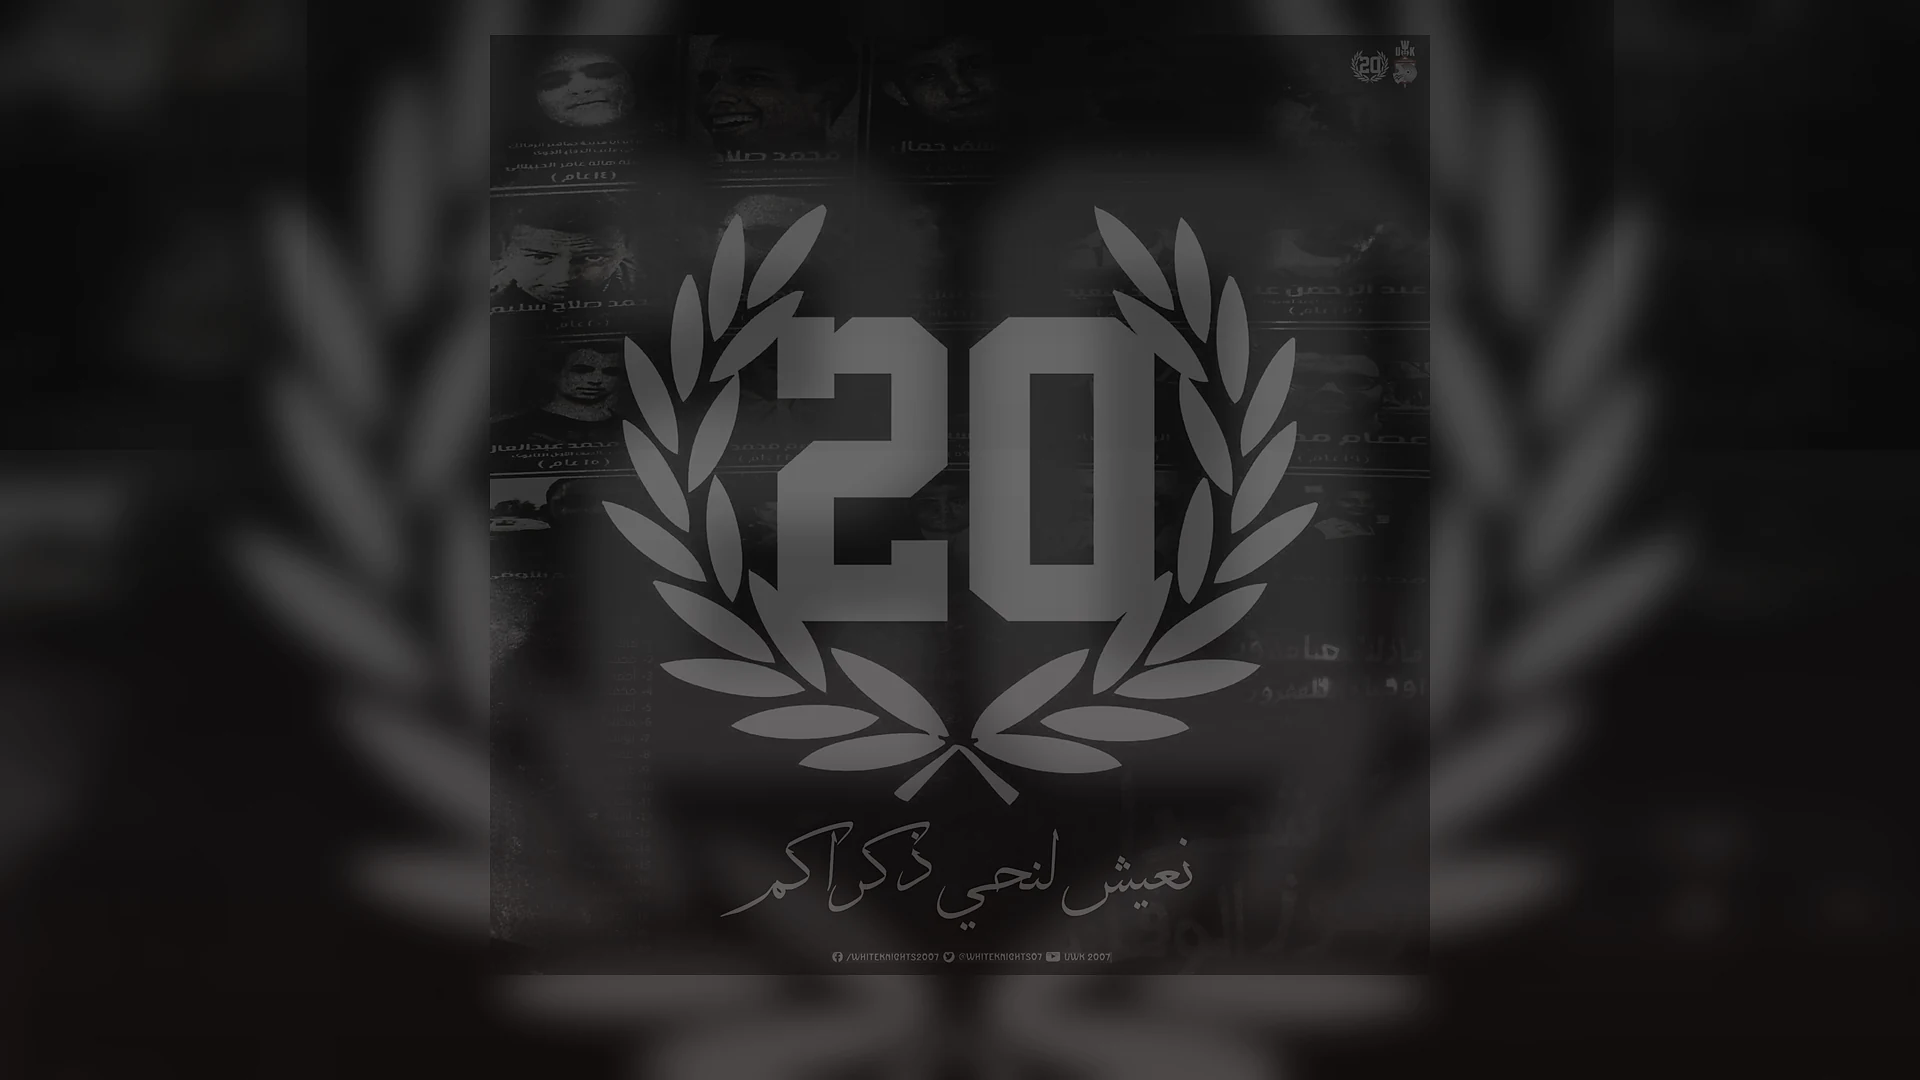
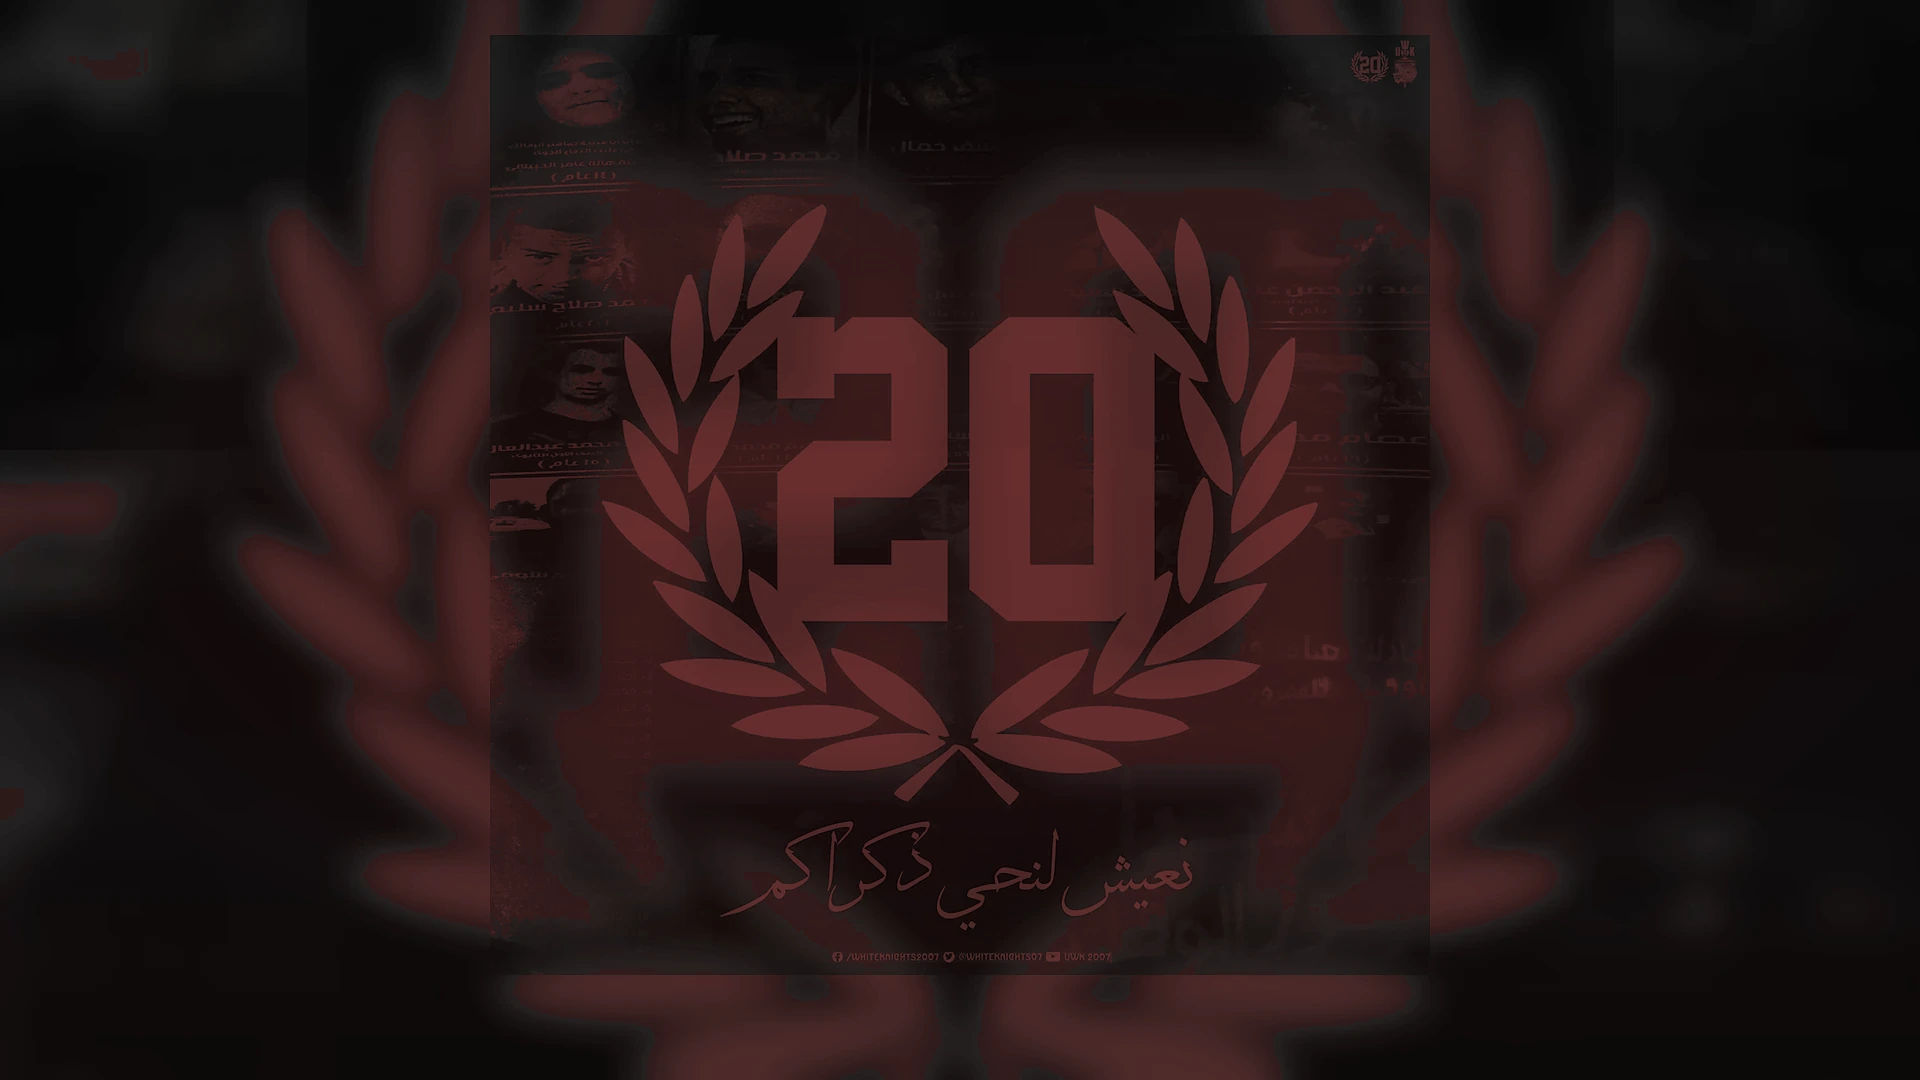
8

diff --git a/public/ua07-20-theme.css b/public/ua07-20-theme.css
@@ -34,7 +34,7 @@ html.ua07-legacy-theme-live body {
       rgba(0, 0, 0, 0.03) 49%,
       rgba(0, 0, 0, 0.38) 87%,
       rgba(0, 0, 0, 0.86) 100%),
-    url("./ua07-20-bg.webp?v=ua07legacy5"),
+    url("./ua07-20-bg.webp?v=ua07legacy6"),
     linear-gradient(135deg, #020203 0%, #101013 46%, #020203 100%) !important;
   background-position:
     center center,
@@ -362,7 +362,7 @@ html.ua07-legacy-theme-live body {
       rgba(0,0,0,0.02) 50%,
       rgba(0,0,0,0.30) 84%,
       rgba(0,0,0,0.78) 100%),
-    url("./ua07-20-bg.webp?v=ua07legacy5"),
+    url("./ua07-20-bg.webp?v=ua07legacy6"),
     linear-gradient(135deg, #020203 0%, #101013 46%, #020203 100%) !important;
   background-position:
     center center,
@@ -509,4 +509,186 @@ html.ua07-legacy-theme-live .sub-dropdown:hover > a {
     inset 0 1px 0 rgba(255,255,255,0.18),
     inset 0 -1px 0 rgba(255,0,0,0.24),
     0 8px 18px rgba(0,0,0,0.26) !important;
+}
+
+
+/* ===== UA07 Legacy 20 Theme V6: transparent crimson glass refinement =====
+   Visual-only overrides for the new legacy theme only.
+   Goal: transparent CPE-like menu feel + crimson-tinted bright wallpaper.
+   No layout dimensions, order, IDs, JS logic, padding, widths, heights, or workflow are changed.
+*/
+html.ua07-legacy-theme-live body {
+  background-image:
+    linear-gradient(180deg,
+      rgba(0,0,0,0.42) 0%,
+      rgba(0,0,0,0.18) 22%,
+      rgba(0,0,0,0.09) 48%,
+      rgba(0,0,0,0.34) 78%,
+      rgba(0,0,0,0.70) 100%),
+    radial-gradient(118% 86% at 50% 39%,
+      rgba(110,0,0,0.14) 0%,
+      rgba(0,0,0,0.00) 38%,
+      rgba(0,0,0,0.42) 100%),
+    linear-gradient(90deg,
+      rgba(0,0,0,0.74) 0%,
+      rgba(0,0,0,0.28) 15%,
+      rgba(0,0,0,0.00) 50%,
+      rgba(0,0,0,0.28) 85%,
+      rgba(0,0,0,0.74) 100%),
+    url("./ua07-20-bg.webp?v=ua07legacy6"),
+    linear-gradient(135deg, #030203 0%, #130607 46%, #020203 100%) !important;
+  background-position:
+    center center,
+    center center,
+    center center,
+    center center,
+    center center !important;
+  background-size:
+    cover,
+    cover,
+    cover,
+    cover,
+    cover !important;
+  background-repeat:
+    no-repeat,
+    no-repeat,
+    no-repeat,
+    no-repeat,
+    no-repeat !important;
+  background-color: #030203 !important;
+}
+
+/* Main menu buttons: more transparent glass, close to the CPE Config polished feel, with stronger text contrast. */
+html.ua07-legacy-theme-live .dropdown .dropbtn,
+html.ua07-legacy-theme-live .navbar a,
+html.ua07-legacy-theme-live #singlelink {
+  color: rgba(255,255,255,0.985) !important;
+  background:
+    linear-gradient(180deg, rgba(255,255,255,0.145), rgba(255,255,255,0.045) 38%, rgba(0,0,0,0.055) 100%),
+    linear-gradient(180deg, rgba(34,36,42,0.28), rgba(4,4,6,0.22) 58%, rgba(92,0,0,0.18) 100%) !important;
+  border-color: rgba(255,255,255,0.155) !important;
+  color-scheme: dark;
+  text-shadow:
+    0 1px 2px rgba(0,0,0,1),
+    0 0 6px rgba(0,0,0,0.92),
+    0 0 1px rgba(255,255,255,0.44) !important;
+  box-shadow:
+    inset 0 1px 0 rgba(255,255,255,0.22),
+    inset 0 0 0 1px rgba(255,255,255,0.095),
+    inset 0 -1px 0 rgba(180,0,0,0.22),
+    0 7px 16px rgba(0,0,0,0.18),
+    0 0 0 1px rgba(0,0,0,0.12) !important;
+  backdrop-filter: blur(7px) brightness(0.82) saturate(1.06);
+  -webkit-backdrop-filter: blur(7px) brightness(0.82) saturate(1.06);
+}
+
+html.ua07-legacy-theme-live .dropdown:hover .dropbtn,
+html.ua07-legacy-theme-live #singlelink:hover,
+html.ua07-legacy-theme-live .navbar a:hover {
+  color: #fff !important;
+  background:
+    radial-gradient(140% 150% at 18% 0%, rgba(255,255,255,0.22), rgba(255,255,255,0) 43%),
+    linear-gradient(180deg, rgba(138,0,0,0.42), rgba(34,34,39,0.30) 58%, rgba(4,4,6,0.24) 100%) !important;
+  border-color: rgba(255,255,255,0.24) !important;
+  text-shadow:
+    0 1px 2px rgba(0,0,0,1),
+    0 0 8px rgba(255,255,255,0.16) !important;
+  box-shadow:
+    inset 0 1px 0 rgba(255,255,255,0.28),
+    inset 0 0 0 1px rgba(255,255,255,0.14),
+    inset 0 -1px 0 rgba(255,0,0,0.30),
+    0 9px 20px rgba(0,0,0,0.30),
+    0 0 16px rgba(150,0,0,0.24) !important;
+  backdrop-filter: blur(8px) brightness(0.86) saturate(1.16);
+  -webkit-backdrop-filter: blur(8px) brightness(0.86) saturate(1.16);
+}
+
+/* Secondary small menu strip: transparent crimson glass instead of opaque blocks. */
+html.ua07-legacy-theme-live .mndo-tabs button,
+html.ua07-legacy-theme-live #mndoTabs button,
+html.ua07-legacy-theme-live .tab button,
+html.ua07-legacy-theme-live button.tablinks:not(#tabs .tablinks) {
+  background:
+    linear-gradient(180deg, rgba(255,255,255,0.135), rgba(255,255,255,0.035) 42%, rgba(0,0,0,0.08)),
+    linear-gradient(180deg, rgba(24,26,31,0.28), rgba(5,5,7,0.22) 64%, rgba(105,0,0,0.20)) !important;
+  color: rgba(255,255,255,0.97) !important;
+  border-color: rgba(255,255,255,0.13) !important;
+  text-shadow:
+    0 1px 2px rgba(0,0,0,0.98),
+    0 0 5px rgba(0,0,0,0.88),
+    0 0 1px rgba(255,255,255,0.28) !important;
+  box-shadow:
+    inset 0 1px 0 rgba(255,255,255,0.20),
+    inset 0 0 0 1px rgba(255,255,255,0.08),
+    inset 0 -1px 0 rgba(190,0,0,0.25),
+    0 6px 14px rgba(0,0,0,0.18) !important;
+  backdrop-filter: blur(6px) brightness(0.82) saturate(1.08);
+  -webkit-backdrop-filter: blur(6px) brightness(0.82) saturate(1.08);
+}
+
+/* Dropdown panels: transparent premium glass; still readable over the now-crimson wallpaper. */
+html.ua07-legacy-theme-live .dropdown-content,
+html.ua07-legacy-theme-live .dropdown-content[style],
+html.ua07-legacy-theme-live .sub-dropdown-content,
+html.ua07-legacy-theme-live .sub-dropdown-content[style] {
+  background:
+    radial-gradient(130% 110% at 16% 0%, rgba(255,255,255,0.125), rgba(255,255,255,0) 42%),
+    linear-gradient(180deg, rgba(20,21,25,0.70), rgba(4,4,6,0.64) 56%, rgba(46,0,0,0.60) 100%) !important;
+  background-color: rgba(6,6,8,0.62) !important;
+  color: rgba(255,255,255,0.975) !important;
+  border-color: rgba(255,255,255,0.16) !important;
+  text-shadow:
+    0 1px 2px rgba(0,0,0,0.96),
+    0 0 5px rgba(0,0,0,0.86) !important;
+  box-shadow:
+    inset 0 1px 0 rgba(255,255,255,0.16),
+    inset 0 0 0 1px rgba(255,255,255,0.055),
+    0 18px 44px rgba(0,0,0,0.46),
+    0 0 18px rgba(120,0,0,0.15) !important;
+  backdrop-filter: blur(14px) brightness(0.82) saturate(1.12);
+  -webkit-backdrop-filter: blur(14px) brightness(0.82) saturate(1.12);
+}
+
+html.ua07-legacy-theme-live .sub-dropdown,
+html.ua07-legacy-theme-live .sub-dropdown[style] {
+  background:
+    linear-gradient(180deg, rgba(16,17,20,0.44), rgba(4,4,6,0.36)) !important;
+  background-color: rgba(6,6,8,0.42) !important;
+  color: rgba(255,255,255,0.975) !important;
+  backdrop-filter: blur(10px) brightness(0.84) saturate(1.10);
+  -webkit-backdrop-filter: blur(10px) brightness(0.84) saturate(1.10);
+}
+
+html.ua07-legacy-theme-live .dropdown-content a,
+html.ua07-legacy-theme-live .sub-dropdown-content a,
+html.ua07-legacy-theme-live .sub-dropdown > a {
+  color: rgba(255,255,255,0.975) !important;
+  background:
+    linear-gradient(180deg, rgba(255,255,255,0.060), rgba(255,255,255,0.012)) !important;
+  text-shadow:
+    0 1px 2px rgba(0,0,0,0.96),
+    0 0 5px rgba(0,0,0,0.84),
+    0 0 1px rgba(255,255,255,0.22) !important;
+  box-shadow:
+    inset 0 -1px 0 rgba(255,255,255,0.060),
+    inset 0 1px 0 rgba(255,255,255,0.026) !important;
+}
+
+html.ua07-legacy-theme-live .sub-dropdown:hover,
+html.ua07-legacy-theme-live .sub-dropdown:hover[style],
+html.ua07-legacy-theme-live .dropdown-content a:hover,
+html.ua07-legacy-theme-live .sub-dropdown-content a:hover,
+html.ua07-legacy-theme-live .sub-dropdown:hover > a {
+  background:
+    radial-gradient(150% 150% at 14% 0%, rgba(255,255,255,0.20), rgba(255,255,255,0) 44%),
+    linear-gradient(90deg, rgba(142,0,0,0.72), rgba(28,29,34,0.58) 62%, rgba(6,6,8,0.52) 100%) !important;
+  background-color: rgba(92,0,0,0.58) !important;
+  color: #fff !important;
+  text-shadow:
+    0 1px 2px rgba(0,0,0,0.96),
+    0 0 8px rgba(255,255,255,0.12) !important;
+  box-shadow:
+    inset 0 1px 0 rgba(255,255,255,0.18),
+    inset 0 -1px 0 rgba(255,0,0,0.24),
+    0 8px 18px rgba(0,0,0,0.22) !important;
 }

diff --git a/public/eid-hud.js b/public/eid-hud.js
@@ -10,7 +10,7 @@ const LS_THEME_OFF = "sr_eid_theme_off";
 const LS_THEME_MODE = "sr_visual_theme_mode";
 const TOGGLE_BTN_ID = "EID_TOGGLE_BTN";
 const LEGACY_THEME_LINK_ID = "ua07LegacyThemeLink";
-const LEGACY_THEME_HREF = "ua07-20-theme.css?v=ua07legacy5";
+const LEGACY_THEME_HREF = "ua07-20-theme.css?v=ua07legacy6";
 const THEME_EID = "eid";
 const THEME_LEGACY = "legacy";
 const THEME_OFF = "off";
